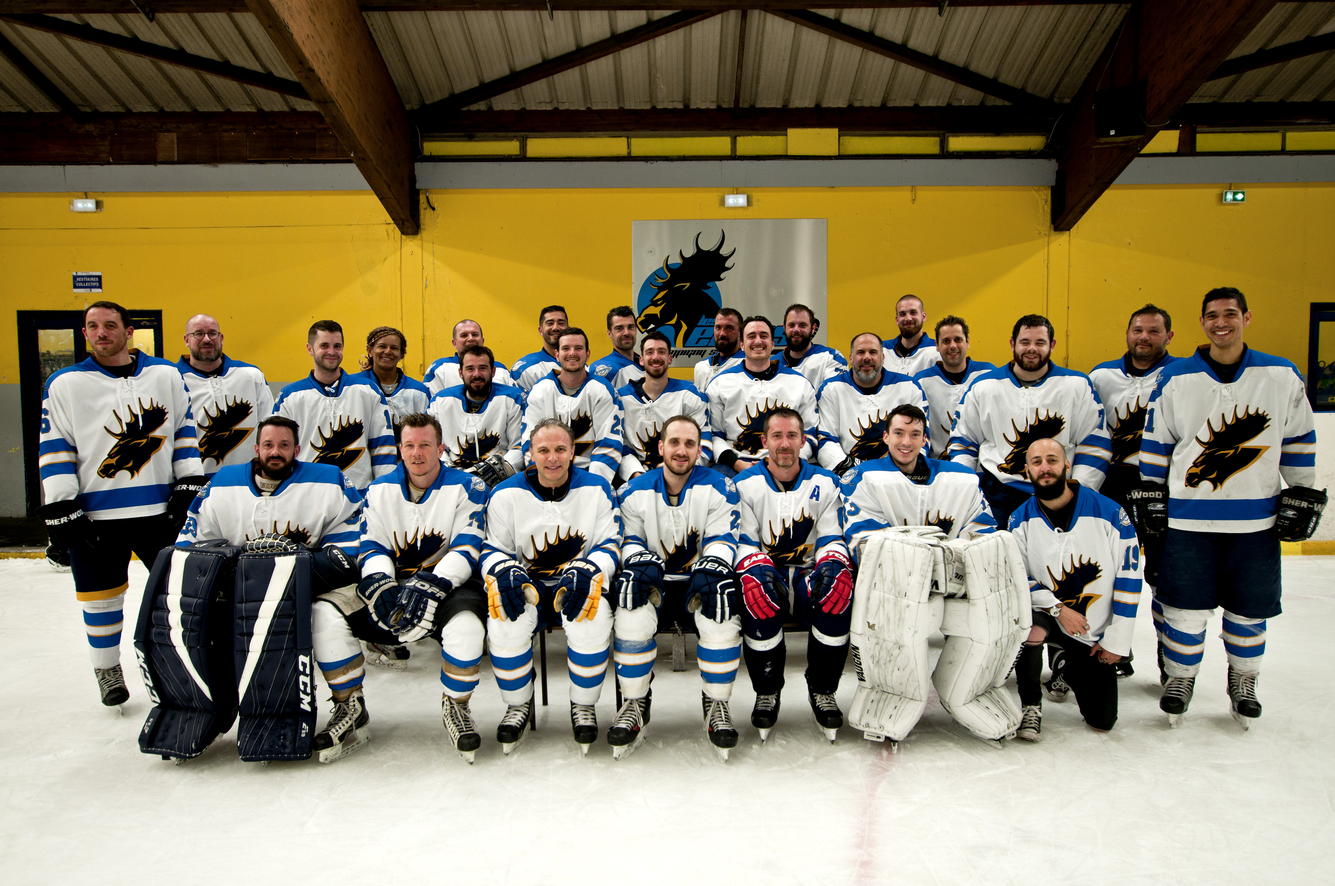
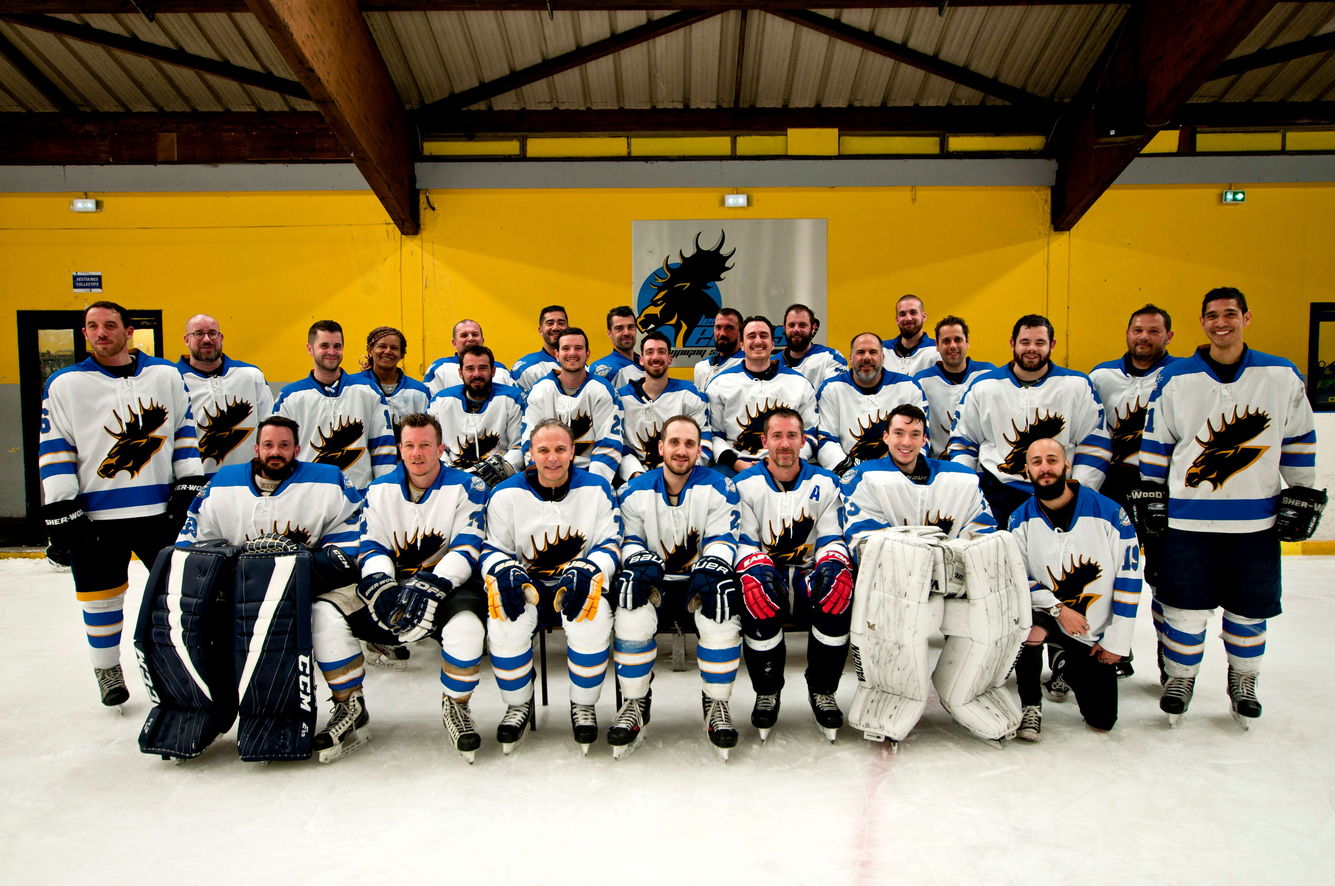
Calendrier mobile done

diff --git a/client/src/components/Calendrier.js b/client/src/components/Calendrier.js
@@ -18,24 +18,27 @@ const Calendrier = (props) => {
   }, [props.gameDate])
 
   return (
-    <Row className='home-calendrier'>
+    <section className='home-calendrier'>
       <Col xs={12} className='home-calendrier-date'>
         {gameDate}
       </Col>
       <Col xs={12} className='home-calendrier-equipe'>
         <Row>
-          <Col className='home-calendrier-equipe-img' xs={6}>
+          <Col className='home-calendrier-equipe-img' xs={4}>
             <img src={props.patinoire === 'home' ? '/equipes/logo-'+props.equipe1+'-100x100.png' : '/equipes/logo-'+props.equipe2+'-100x100.png'} alt={props.patinoire === 'home' ? props.equipe1 : props.equipe2} />
           </Col>
-          <Col className='home-calendrier-equipe-img' xs={6}>
+          <Col className='home-calendrier-score' xs={4}>
+            {props.score1 === '' ? 'Vs' : props.patinoire === 'home' ? props.score1 + ' - ' + props.score2 : props.score2 + ' - ' + props.score1}
+          </Col>
+          <Col className='home-calendrier-equipe-img' xs={4}>
             <img src={props.patinoire === 'home' ? '/equipes/logo-'+props.equipe2+'-100x100.png' : '/equipes/logo-'+props.equipe1+'-100x100.png'} alt={props.patinoire === 'home' ? props.equipe2 : props.equipe1} />
           </Col>
         </Row>
         <Row>
-          <Col xs={6}>
+          <Col className='home-calendrier-equipe-name' xs={4}>
             {props.patinoire === 'home' ? props.equipe1 : props.equipe2}
           </Col>
-          <Col xs={6}>
+          <Col className='home-calendrier-equipe-name' xs={{ span: 4, offset: 4 }}>
             {props.patinoire === 'home' ? props.equipe2 : props.equipe1}
           </Col>
         </Row>
@@ -43,7 +46,7 @@ const Calendrier = (props) => {
       <Col xs={12} className='home-calendrier-resultat'>
         <span>Résultat du match : {props.resultat}</span>
       </Col>
-    </Row>
+    </section>
   )
 }
 

diff --git a/client/src/components/Equipe.js b/client/src/components/Equipe.js
@@ -1,13 +1,28 @@
-import React from 'react'
-import { Row, Col } from 'react-bootstrap'
+import React, { useState, useEffect } from 'react'
+import { Row, Col, Figure } from 'react-bootstrap'
 
 import equipe from '../img/equipes/loisirs_2018_2019.jpg'
+import equipeMobile from '../img/equipes/loisirs_2018_2019_mobile.png'
 
 const Equipe = () => {
+  const [teamFigure, setTeamFigure] = useState('')
+
+  useEffect(() => {
+    window.innerWidth < 1025 ? setTeamFigure(equipeMobile) : setTeamFigure(equipe)
+  }, [])
+
   return (
     <Row className='home-equipe'>
       <Col xs={12} lg={6} className='home-equipe-img'>
-        <img src={equipe} alt='Equipe des Elans loisir de Champigny' />
+        <Figure>
+          <Figure.Image
+            alt="Equipe des Elans loisir de Champigny"
+            src={teamFigure}
+          />
+          <Figure.Caption>
+            Les Elans loisir de Champigny 2018/2019
+          </Figure.Caption>
+        </Figure>
       </Col>
       <Col xs={12} lg={6} className='home-equipe-article'>
         <h3>L'équipe des Elans Loisir...</h3>

diff --git a/client/src/scss/_home.scss b/client/src/scss/_home.scss
@@ -6,6 +6,7 @@
       color: #252525;
       transition: all 0.5s;
       text-shadow: none;
+      padding: 0;
 
       &:hover {
         color: #0000FF;
@@ -196,8 +197,23 @@
       }
 
       &-calendrier {
-        & > div {
-          padding-right: 0;
+        padding: 30px 0;
+        font-weight: 500;
+        text-align: center;
+
+        &:nth-child(even) {
+          background-color: #d3d3d3;
+          -webkit-box-shadow: 0px 0px 20px 0px rgba(37,37,37,0.5);
+          -moz-box-shadow: 0px 0px 20px 0px rgba(37,37,37,0.5);
+          box-shadow: 0px 0px 20px 0px rgba(37,37,37,0.5);
+        }
+
+        &-equipe {
+          margin: 30px 0;
+        }
+
+        &-score {
+          align-self: center;
         }
       }
 
